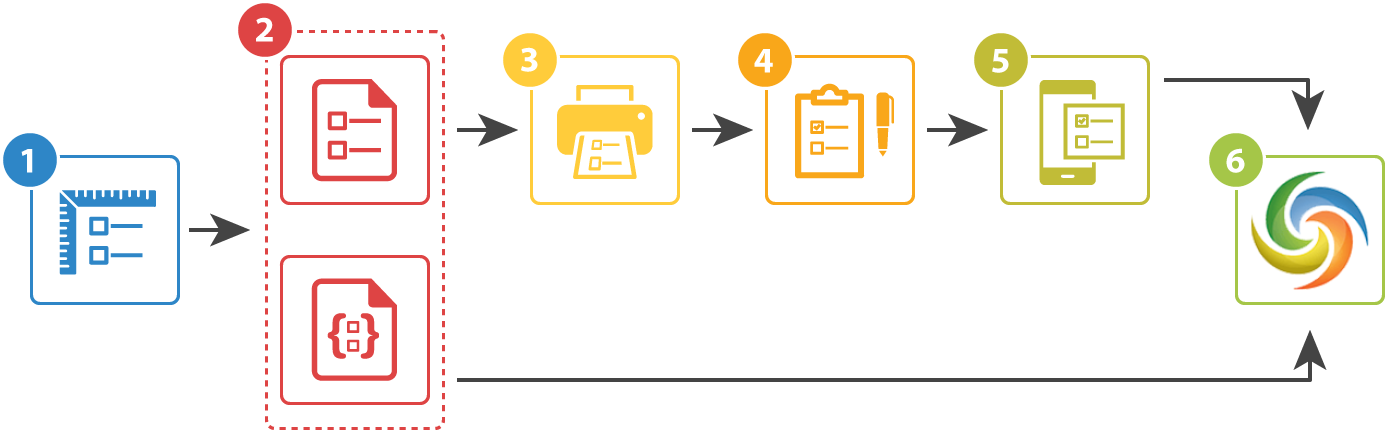
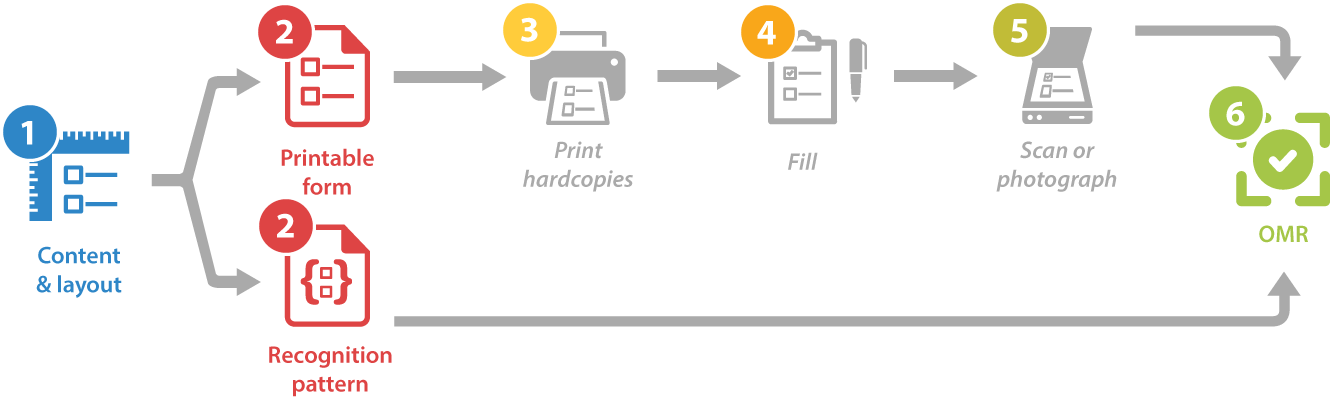
Testing topic aliases

Changed region(s): [[0.0, 0.0, 1.0, 1.0], [0.5549, 0.4534, 0.6782, 0.4836]]

diff --git a/net/getting-started/hello-world/_index.md b/net/getting-started/hello-world/_index.md
@@ -1,6 +1,6 @@
 ---
 weight: 40
-date: "2022-04-14"
+date: "2022-04-15"
 author: "Vladimir Lapin"
 type: docs
 url: /net/hello-world/
@@ -41,7 +41,7 @@ While our OMR application requires minimal coding, the underlying process is a b
 ![Necessary steps to be taken](steps.png)
 
 1. **Design** the questionnaire.
-2. **Generate** print form and recognition pattern files.
+2. **Generate** a printable form and recognition pattern files.
 3. **Print** the form.
 4. **Fill** the form.
 5. **Scan** or take a photo of the form.
@@ -63,11 +63,11 @@ The structure and layout of the questionnaire (template source) is defined in a 
 	() Pretty good, thanks! () I won't respond until I see my lawyer.
 ```
 
-In this article, we won't delve into the full syntax of the template. Let's just take a look at its key building blocks:
+In this article, we won't delve into the [full syntax](/omr/net/txt-markup/) of the template. Let's just take a look at its key building blocks:
 
-- The text after `?text=` keyword is rendered as a simple paragraph. You can optionally format it by adding layout attributes (font, style, and the like) on the lines immediately following the text. Each attribute definition must be preceded by a **tabulation** symbol.
-- The question text is provided on a new line starting with a hash (`#`) symbol. The hash itself is not rendered.
-- The answers are provided on new lines immediately following the question. You can either place all answers on a single line or on several lines by adding line breaks. Each line must begin with a **tabulation** symbol.
+- The text after `?text=` keyword is rendered as a simple paragraph. You can optionally format it by adding layout attributes (font, style, and the like) on the lines immediately following the text. Each attribute definition must be preceded by a **tab character**.
+- The question text is provided on a new line starting with a hash (`#`). The hash itself is not rendered.
+- The answers are provided on new lines immediately following the question. You can either place all answers on a single line or on several lines by adding line breaks. Each line must begin with a **tab character**.
 
 Save the template source somewhere on you disk under the name **template.txt**. You will need it on the next step.
 
@@ -111,8 +111,8 @@ namespace HelloOMR
 Now run the program. If the template is correct, you should get 2 files in **bin\Debug** directory of the project:
 
 - **Hello.OMR.png**  
-  A print form in PNG format. Since we have not provided a [license](/omr/net/licensing/), there will be a watermark on the page.  
-  ![Print form](print-form.png)
+  A printable form in PNG format. Since we have not provided a [license](/omr/net/licensing/), there will be a watermark on the page.  
+  ![Printable form](print-form.png)
 - **Hello.OMR.omr**  
   A recognition pattern used by Aspose.OMR recognition engine. **This file is required for recognizing filled forms, make sure you do not accidentally delete it!**
 
@@ -184,4 +184,4 @@ Question1,"A"
 
 ## What's next?
 
-Congratulations! You have taken the first steps in optical mark recognition technology. Read the [Developer reference](/omr/net/developer-guide/) and [API reference](https://apireference.aspose.com/omr/net) for details on developing OMR forms and applications with Aspose.OMR for .NET.
+Congratulations! You have taken the first steps in optical mark recognition technology. Read the [Developer reference](/omr/net/developer-reference/) and [API reference](https://apireference.aspose.com/omr/net) for details on developing advanced OMR forms and applications with Aspose.OMR for .NET.

diff --git a/net/overview/features-benefits/_index.md b/net/overview/features-benefits/_index.md
@@ -4,6 +4,8 @@ date: "2022-04-12"
 author: "Vladimir Lapin"
 type: docs
 url: /net/features-benefits/
+aliases:
+- /net/features-list/
 title: Why Aspose.OMR?
 description: Discover features and benefits of Aspose.OMR for .NET.
 keywords:
@@ -25,14 +27,14 @@ Aspose.OMR for .NET offers a wide range of benefits for projects of any size.
 - **Superior recognition accuracy** that can be further fine-tuned for perfect results even in difficult conditions.
 - **No equipment needed**. Use your existing office copier or even a smartphone camera instead of an expensive OMR scanner. You can even process rotated and skewed images.
 - Respondents can fill out your forms with **pen, pencil, or marker** and use **any types of marks**.
-- **Real-time recognition tuning** through a visual UI control.
+- **Real-time recognition tuning** through a [visual UI control](/omr/net/working-with-ui-control/).
 - **QR codes and barcodes recognition**.
 - **Recognition of multi-page forms**.
 - Recognition results are returned in **JSON, XML or CSV formats**, which allows you to import them into any relational or NoSQL database, spreadsheet, as well as into analytical and CRM systems.
 
 ### Designing OMR forms
 
-- **Whole solution**. Aspose.OMR for .NET supports the complete OMR workflow - from designing a form to recognizing its filled hardcopies.  
+- **Whole solution**. Aspose.OMR for .NET supports the complete OMR workflow - from [designing](/omr/net/design-form/) a form to [recognizing](/omr/net/recognition/) its filled hardcopies.  
   No external editors and design tools are required.
 - **Very flexible markup language** for designing OMR forms of any layout and complexity.
 - **QR codes, barcodes and images** can be added to OMR forms.

diff --git a/net/getting-started/installation/_index.md b/net/getting-started/installation/_index.md
@@ -23,7 +23,7 @@ The instructions below describe how to install or update Aspose.OMR for .NET in 
 
 ## Using NuGet Package Manager UI
 
-NuGet Package Manager UI is the easiest way to install and update Aspose.OMR for .NET in your project.
+**NuGet Package Manager UI** is the easiest way to install and update Aspose.OMR for .NET in your project.
 
 ### Installing
 
@@ -56,7 +56,7 @@ Refer to Aspose.OMR for .NET [Release Notes](/omr/net/release-notes/) to check i
 
 ## Using NuGet Package Manager Console
 
-NuGet Package Manager Console lets you install and update Aspose.OMR for .NET in your project using PowerShell commands.
+**NuGet Package Manager Console** lets you install and update Aspose.OMR for .NET in your project using PowerShell commands.
 
 ### Installing
 

diff --git a/net/overview/supported-file-formats/_index.md b/net/overview/supported-file-formats/_index.md
@@ -27,7 +27,7 @@ Format     | Details
 **TXT**    | Lightweight text markup specifically tailored for Aspose.OMR forms.
 **Object** | Describe the OMR form directly in the application code.
 
-## Print forms
+## Printable forms
 
 Once the template source code is ready, you can generate a printable document from it. Aspose.OMR for .NET intellectually selects the file format based on the provided extension:
 

diff --git a/net/overview/_index.md b/net/overview/_index.md
@@ -4,6 +4,8 @@ date: "2022-04-11"
 author: "Vladimir Lapin"
 type: docs
 url: /net/overview/
+aliases:
+- /net/product-overview/
 title: Product overview
 description: An introduction to OMR technology and how Aspose.OMR for .NET  can help you use it for your day-to-day business needs.
 keywords:
